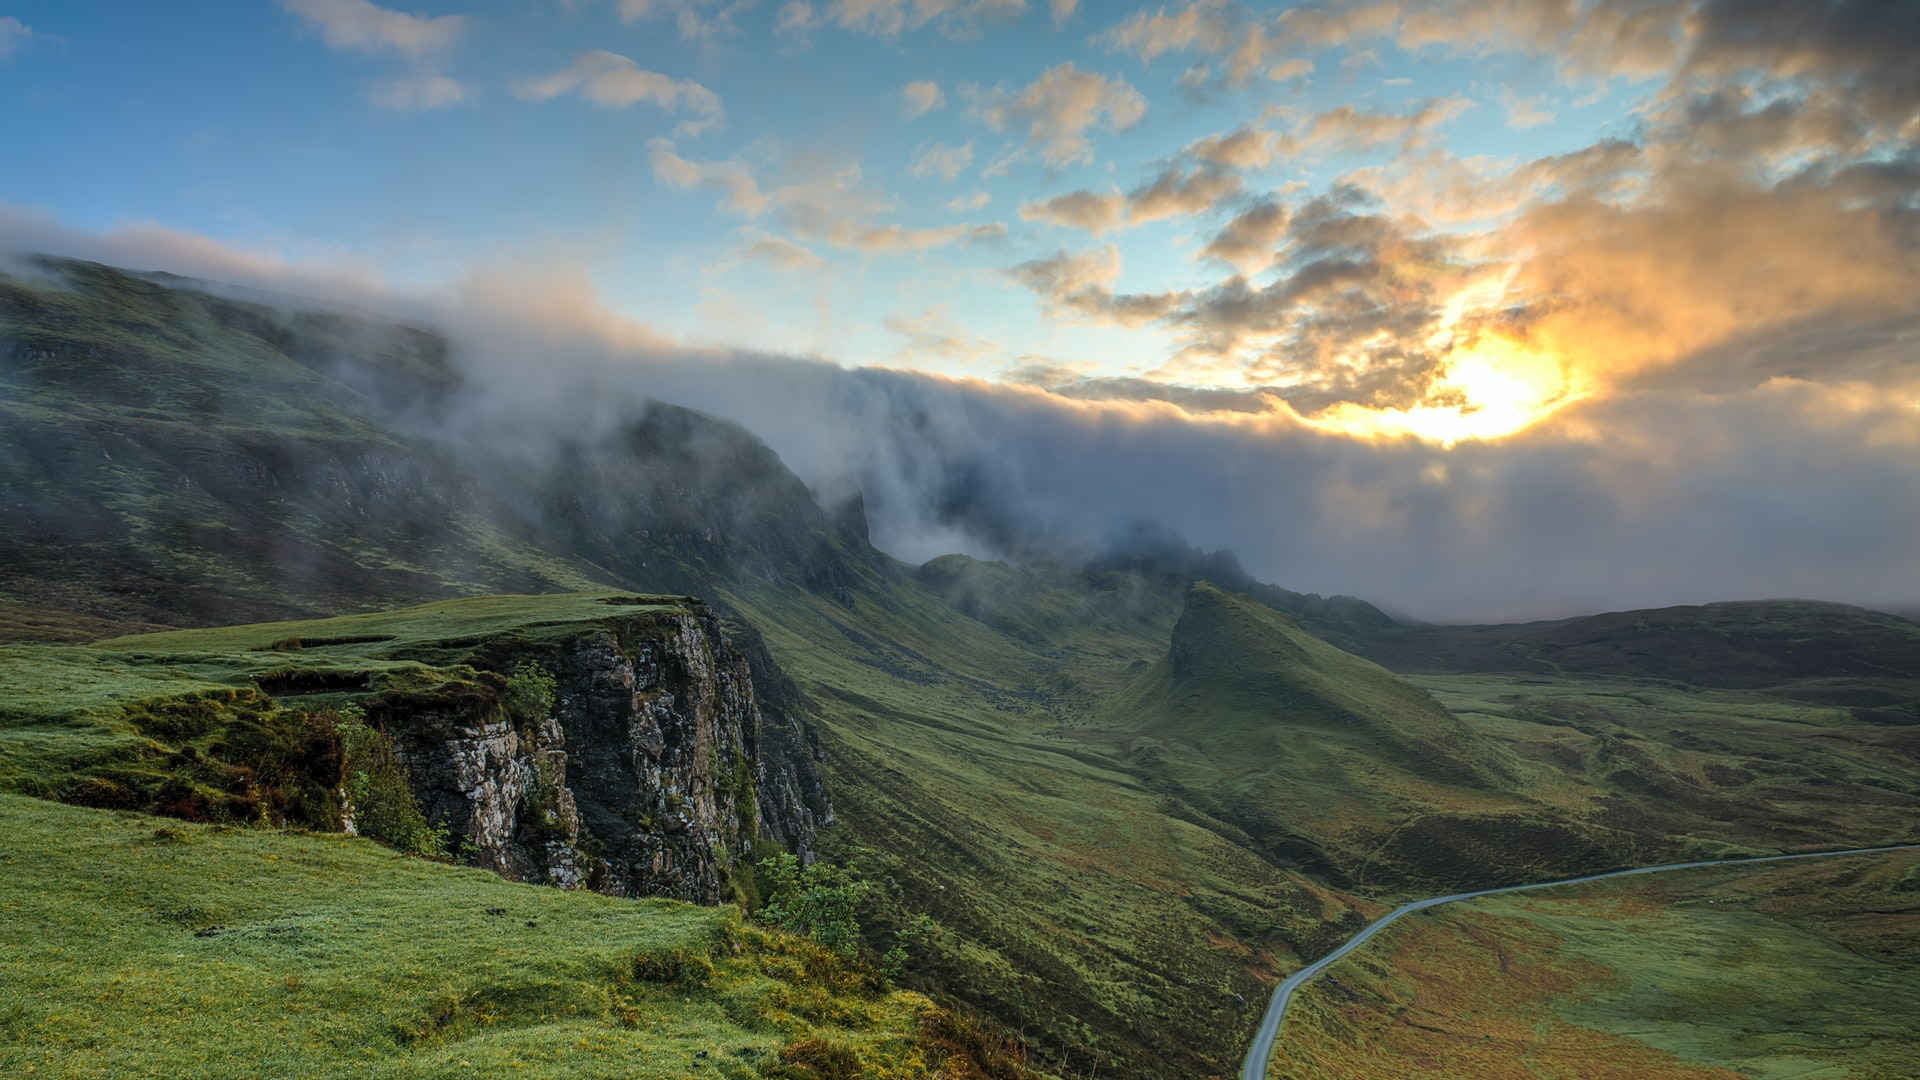
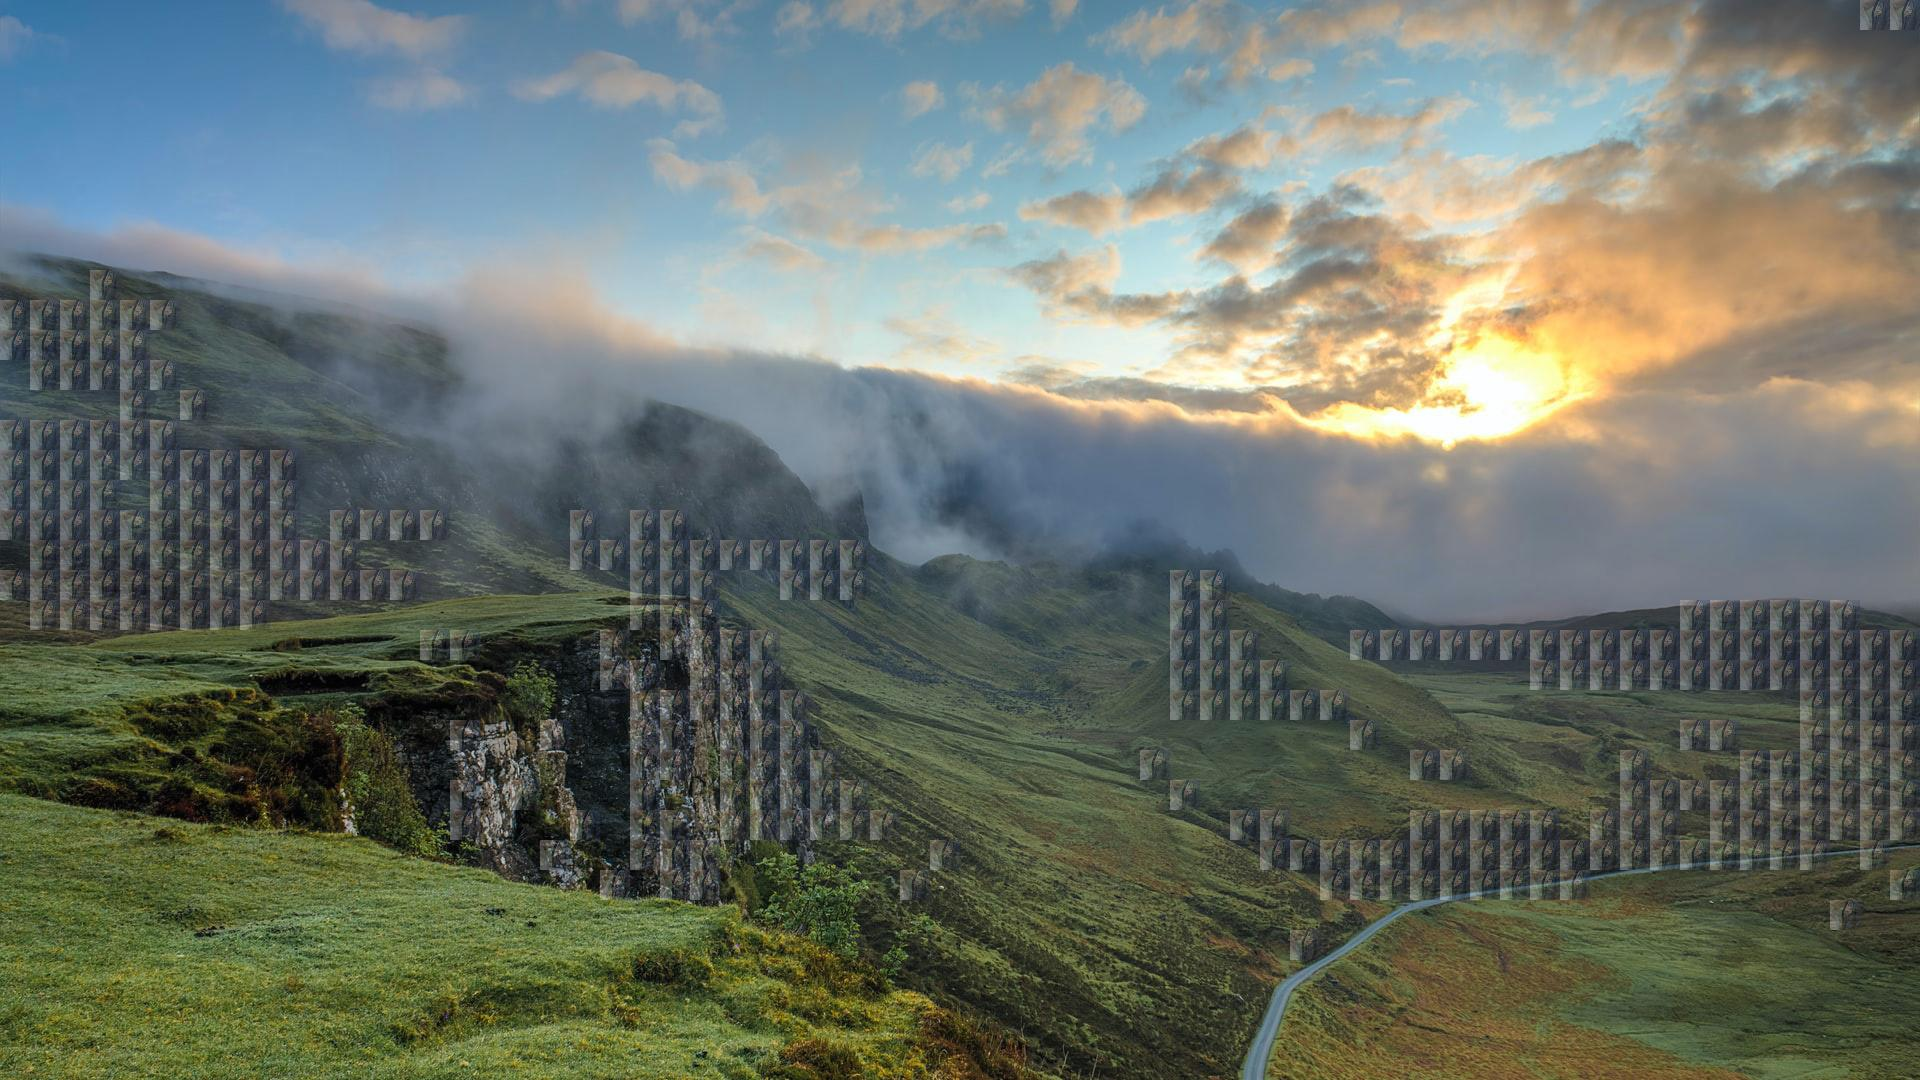
update

diff --git a/app.py b/app.py
@@ -9,7 +9,7 @@ from werkzeug.utils import secure_filename
 from flask import send_from_directory
 # from livereload import Server, shell
 import numpy as np
-from helper import get_hsv_from_path, get_hsv_info,get_bgr_info,get_rgb_from_path,get_rgb_info
+from helper import *
 import pickle
 import cv2
 import copy
@@ -37,7 +37,6 @@ app.debug = True
 app.config['UPLOAD_FOLDER'] = UPLOAD_FOLDER
 app.config['MAIN_PIC_PATH'] = main_pic_path
 app.config['ORIG_PIC_PATH'] = orig_pic_path
-app.config['CHECK_PIC_PATH'] = './static/img/colorcomp.jpg'
 
 
 # global constant
@@ -102,11 +101,16 @@ def uploads_file():
             # upload された画像のr,g,bの平均を計算
             rgb = get_rgb_from_path(os.path.join(app.config['UPLOAD_FOLDER'], filename))
             rgb = cv2.resize(rgb , (pixel_resolution, pixel_resolution))
-            r,g,b = np.mean(rgb[:,:,0]), np.mean(rgb[:,:,1]), np.mean(rgb[:,:,2])
+
+            common_color, _ = kmeans_process(rgb,3)
+            r,g,b = common_color[0,0], common_color[0,1], common_color[0,2]
+
+            # r,g,b = np.mean(rgb[:,:,0]), np.mean(rgb[:,:,1]), np.mean(rgb[:,:,2])
 
             # 距離を計算
             deltaR, deltaG, deltaB = rgb_block[:,:,0] - r, rgb_block[:,:,1] - g, rgb_block[:,:,2] - b
-            dist = np.sqrt(2*deltaR**2 + 4*deltaG**2 + 3*deltaB**2) # 距離の計算　blockw*blockhの二次元行列
+            # dist = np.sqrt(2*deltaR**2 + 4*deltaG**2 + 3*deltaB**2) # 距離の計算　blockw*blockhの二次元行列
+            dist = np.sqrt(deltaR**2 + deltaG**2 + deltaB**2) # 距離の計算　blockw*blockhの二次元行列
 
             # dist が一定の値以下のblock
             thresh = 30
@@ -132,9 +136,9 @@ def uploads_file():
             # img = Image.fromarray(hsv)
 
             img1 = Image.open(app.config['MAIN_PIC_PATH'])
-            img1.putalpha(150)
+            img1.putalpha(80)
             img2 = Image.open(app.config['ORIG_PIC_PATH'])
-            img2.putalpha(200)
+            img2.putalpha(250)
             bg = Image.new("RGBA", full_resolution[::-1], (255, 255, 255, 0))
             bg.paste(img2, (0, 0), img2)
             bg.paste(img1, (0, 0), img1)
@@ -151,47 +155,6 @@ def uploads_file():
         # target.npyを画像にする下に手渡す
         return render_template("index.html")
 
-@app.route('/check', methods=['GET', 'POST'])
-def check():
-    # リクエストがポストかどうかの判別
-    if request.method == 'POST':
-        # ファイルがなかった場合の処理
-        if 'file' not in request.files:
-            flash('ファイルがありません')
-            return redirect(request.url)
-        # データの取り出し
-        file = request.files['file']
-        # ファイル名がなかった時の処理
-        if file.filename == '':
-            flash('ファイルがありません')
-            return redirect(request.url)
-        # ファイルのチェック
-        if file and allwed_file(file.filename):
-            # 危険な文字を削除（サニタイズ処理）
-            filename = secure_filename(file.filename)
-            # ファイルの保存
-            file.save(os.path.join(app.config['UPLOAD_FOLDER'], filename))
-
-    
-            # upload された画像のr,g,bの平均を計算
-            resolution = 1000
-            rgb = get_rgb_from_path(os.path.join(app.config['UPLOAD_FOLDER'], filename))
-            rgb = cv2.resize(rgb , (resolution, resolution))
-            r,g,b = np.mean(rgb[:,:,0]), np.mean(rgb[:,:,1]), np.mean(rgb[:,:,2])
-
-            mean_color = np.ones((resolution, resolution, 3)).astype(np.uint8) * np.array([r,g,b]).astype(np.uint8)
-            check = np.concatenate((rgb, mean_color), axis=1)
-            check = cv2.cvtColor(check, cv2.COLOR_RGB2BGR)
-            cv2.imwrite(app.config['CHECK_PIC_PATH'],check)
-
-
-            return render_template("colorcheck.html")
-
-    if request.method == 'GET':
-        print(current_app)
-        print(dir(current_app))
-        # target.npyを画像にする下に手渡す
-        return render_template("colorcheck.html")
 
 @app.route('/preview', methods=['GET', 'POST'])
 def preview():
@@ -256,7 +219,7 @@ def set_target():
                     rgb_block[y,x,:] = [avg_r, avg_g, avg_b] 
                 with open("rgb_block.pkl", "wb") as f:
                     pickle.dump(rgb_block, f)
-            allocated = np.zeros((hb,wb),dtype=bool) # 初期化
+            allocated = np.zeros(( hb ,wb),dtype=bool) # 初期化
             np.save('allocated.npy',allocated)
             shutil.copyfile(app.config['ORIG_PIC_PATH'], app.config['MAIN_PIC_PATH'])
             return redirect(url_for("uploads_file"))

diff --git a/helper.py b/helper.py
@@ -3,6 +3,27 @@ from numpy import asarray
 import cv2
 from scipy import stats
 import numpy as np
+import scipy.cluster
+from collections import Counter
+
+def kmeans_process(img, n_cluster):
+    """return main color(rgb)"""
+    w = img.shape[1]
+    h = img.shape[0]
+    color_arr = img.reshape(h*w,3)
+    color_arr = color_arr.astype(np.float)
+    codebook, distortion = scipy.cluster.vq.kmeans(color_arr, n_cluster)  # クラスタ中心
+    code, _ = scipy.cluster.vq.vq(color_arr, codebook)  # 各データがどのクラスタに属しているか
+    n_data = Counter(code)
+    n_data = n_data.most_common()
+    colors = []
+    nums = []
+    for data in n_data:
+        colors.append(list(map(int,codebook[data[0]])))
+        nums.append(data[1])
+    colors = np.array(colors)
+    return colors,nums
+
 
 def get_rgb_from_path(path):
     image  = Image.open(path) # TODO:opencvに書き直す
